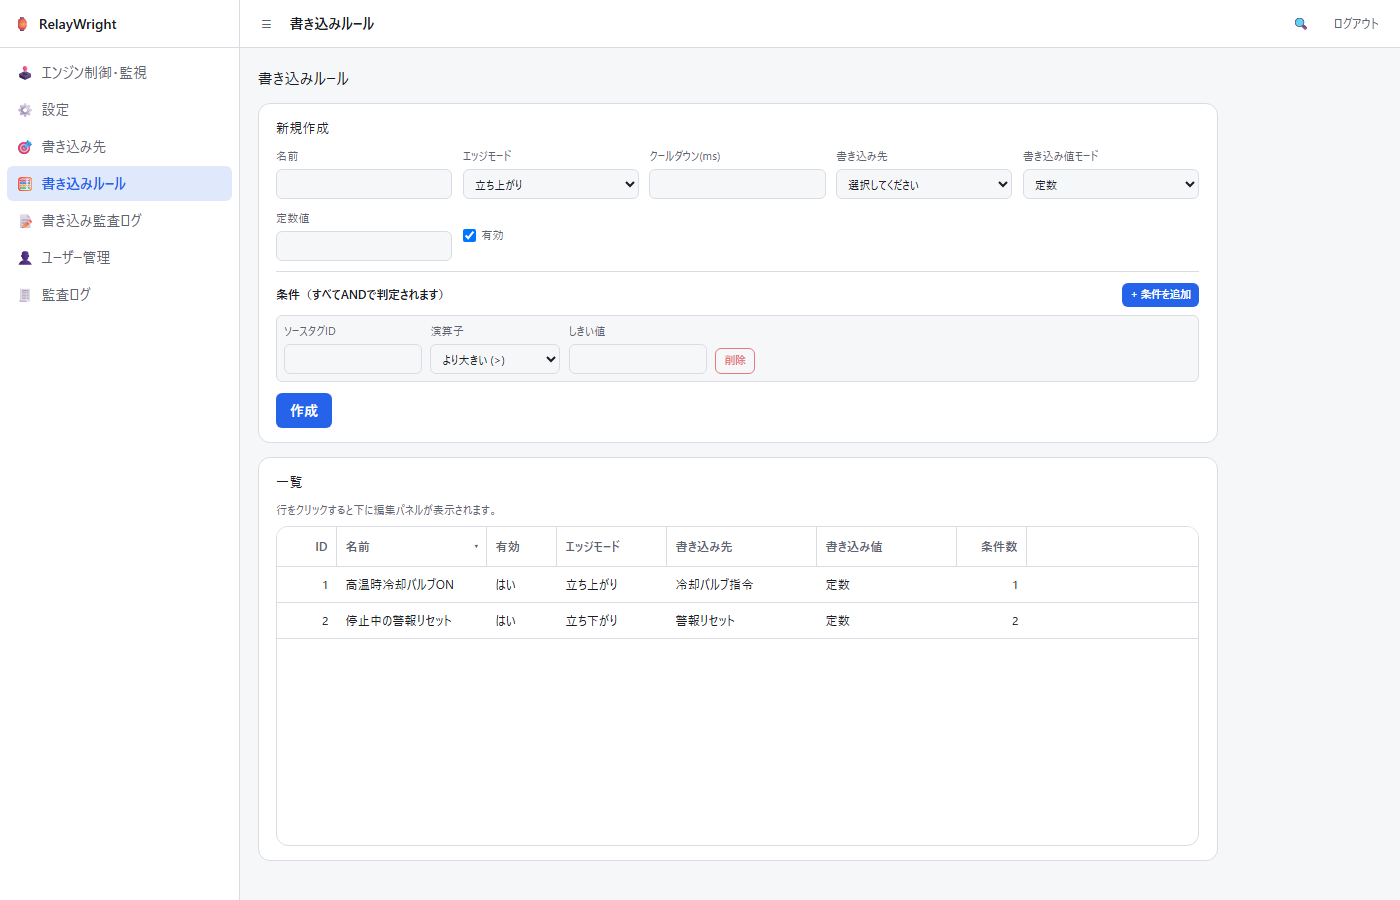
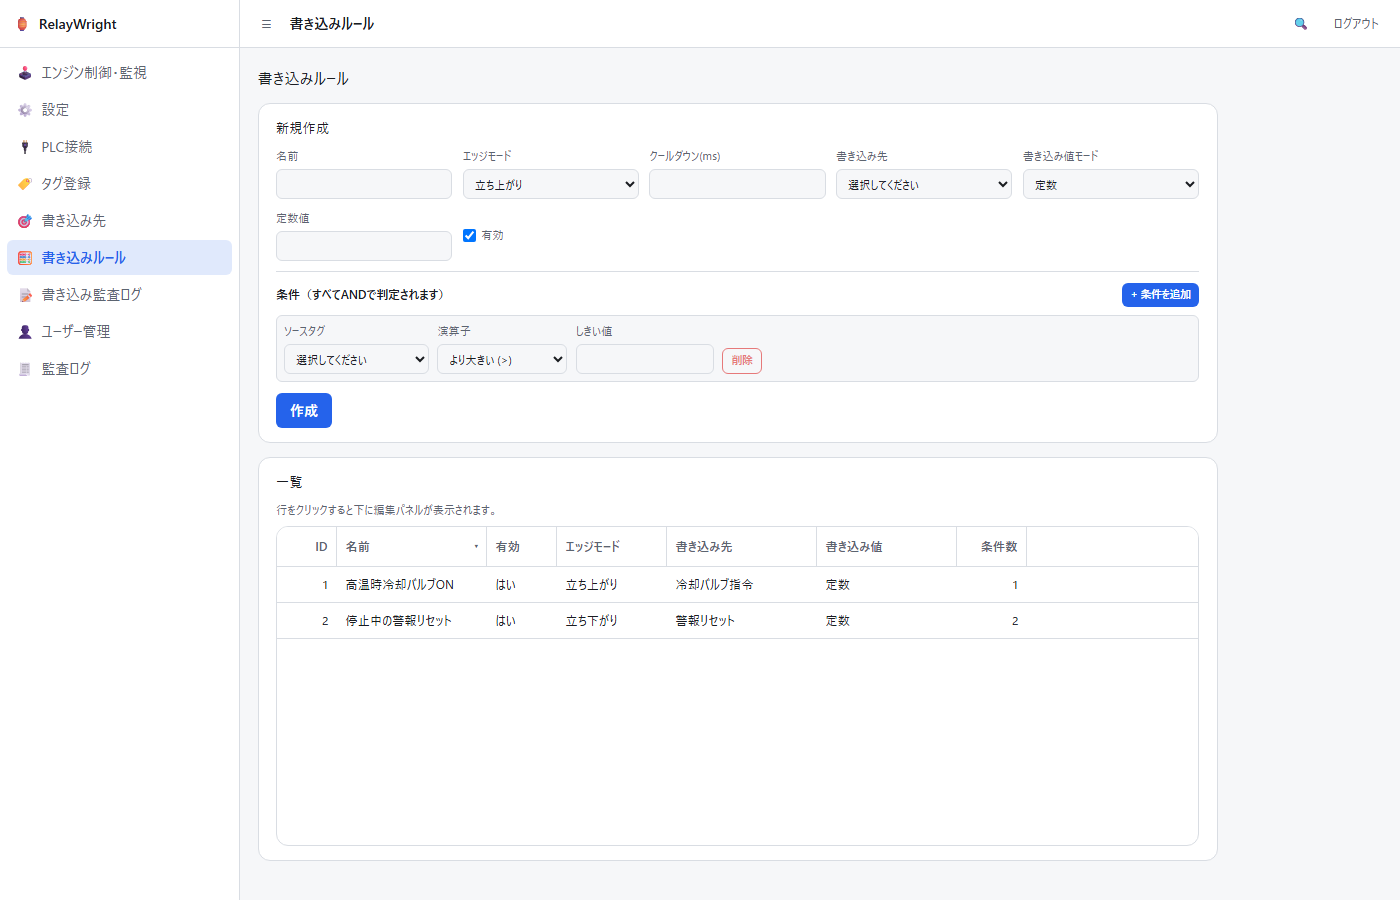
docs(relay-wright): マニュアルをR1-B（PLC接続/タグ登録画面・プルダウン化）に追随
- capture-screenshots.mjs: PLC接続・収集グループ・タグの投入を直接INSERT
  からREST（実経路）に切替（直接INSERTはエンジン専用のwrite_audit_log
  デモ行のみ残す）。plc-connections.png / tags.png の撮影を追加
- スクリーンショット全面再取得（ナビに PLC接続/タグ登録 が増えたため
  全画面のサイドバーが変化。login/setup はバイト同一で変更なし）
- manual.md:
  - §4 に 4.2 PLC接続（SLMPのみエンジン対象の注記・削除ガード）と
    4.3 タグ登録（収集グループ内包・アドレス記法・スケーリング/しきい値・
    period_ms は参考情報）をナビ順で追加し、以降を再採番
  - 書き込み先/ルール: ID数値直接入力の記述を「ID: 名前（…）」形式の
    プルダウン選択に更新
  - §5 手順1: 接続→タグ→書き込み先→ルールの順で全て画面から登録可能に
  - §6: 「PLC接続・ソースタグの管理画面が未実装」の項目を削除（解消済み）

diff --git a/apps/relay-wright/docs/manual.md b/apps/relay-wright/docs/manual.md
@@ -76,8 +76,8 @@ Windows 用インストーラ（NSIS 形式 `RelayWright_<version>_x64-setup.exe
 
 ## 4. 画面ガイド
 
-サイドバーの構成は上から エンジン制御・監視 / 設定 / 書き込み先 /
-書き込みルール / 書き込み監査ログ / ユーザー管理 / 監査ログ です
+サイドバーの構成は上から エンジン制御・監視 / 設定 / PLC接続 / タグ登録 /
+書き込み先 / 書き込みルール / 書き込み監査ログ / ユーザー管理 / 監査ログ です
 （ユーザー管理と監査ログは管理者のみ表示）。
 
 権限（ロール）は 3 段階です。
@@ -85,7 +85,7 @@ Windows 用インストーラ（NSIS 形式 `RelayWright_<version>_x64-setup.exe
 | ロール          | できること                                                              |
 | --------------- | ----------------------------------------------------------------------- |
 | 閲覧者 (viewer) | 各画面の閲覧のみ                                                        |
-| 編集者 (editor) | + 書き込み先/ルールの作成・編集・削除、ドライラン切替                   |
+| 編集者 (editor) | + PLC接続/タグ/書き込み先/ルールの作成・編集・削除、ドライラン切替      |
 | 管理者 (admin)  | + アーム/ディスアーム、エンジン再構築、ユーザー管理、監査ログ、設定管理 |
 
 ### 4.1 エンジン制御・監視
@@ -116,24 +116,70 @@ Windows 用インストーラ（NSIS 形式 `RelayWright_<version>_x64-setup.exe
 - 権限: アーム/ディスアーム/エンジン再構築は管理者のみ、ドライラン切替は
   編集者以上です。権限のないボタンは無効化されます。
 
-### 4.2 書き込み先
+### 4.2 PLC接続
+
+収集グループ・タグ・書き込み先が参照する PLC エンドポイント
+（ホスト・ポート）の登録画面です。まずここに接続を登録してから、
+タグや書き込み先を作成します。
+
+![PLC接続画面](images/plc-connections.png)
+
+- 上段の「新規作成」フォームで名前・プロトコル
+  （`SLMP（MELSEC MCプロトコル）` / `Modbus TCP` のプルダウン）・
+  ホスト・ポート・ユニット ID・有効を入力して作成します。
+- **ユニット ID** は Modbus 用のスレーブ ID（0〜255）です。SLMP では
+  未使用のため、既定値 1 のままで構いません。
+- **本アプリのエンジンがポーリング／書き込みするのは SLMP 接続のみ**です。
+  Modbus TCP は共有レジストリ（他アプリ用）として登録できますが、
+  本アプリのエンジンからは使用されません。
+- 一覧の行をクリックすると下に編集パネルが開き、保存・削除ができます。
+- 収集グループが参照している接続は削除できません（「…収集グループが
+  N 件あるため削除できません」というエラーが表示されます）。先に
+  参照元の収集グループを削除・付け替えしてください。
+
+### 4.3 タグ登録
+
+書き込みルールの条件・コピー元が参照するソースタグの登録画面です。
+タグが所属する収集グループの管理もこの画面で行います。
+
+![タグ登録画面](images/tags.png)
+
+- **収集グループ**: タグは必ずいずれかの収集グループ（PLC 接続への
+  所属単位）に属します。ページ上部のセクションで一覧・作成・編集・
+  削除ができます。PLC 接続はプルダウンで選択し、収集周期は
+  100ms〜1min の固定候補から選びます。**収集周期（period）は共有
+  レジストリ上のメタデータ（他の収集アプリが使用）で、本アプリの
+  エンジンは自前の固定間隔でポーリングするため、ここでは参考情報
+  です。** タグが所属しているグループは削除できません（件数入りの
+  エラーが表示されます）。
+- タグの「新規作成」フォームでは名前・収集グループ（「グループ名
+  （接続名）」形式のプルダウン）・アドレス・データ型
+  （bit/i16/u16/i32/u32/f32）・単位・小数桁などを入力します。
+- **アドレス**は SLMP 記法で入力します（例: `D100` / `M10` / `X1A`）。
+- **スケーリング（raw/eng の上下限）**は 4 つすべて入力するか、すべて
+  空にしてください（空 = スケーリングなし）。
+- **しきい値 LL/L/H/HH** は LL ≤ L ≤ H ≤ HH の順で入力します
+  （設定した項目のみ比較されます）。
+- 一覧の行をクリックすると下に編集パネルが開き、保存・削除ができます。
+
+### 4.4 書き込み先
 
 ルールが値を書き込む PLC デバイス（アドレス）の登録画面です。
 
 ![書き込み先画面](images/write-targets.png)
 
-- 上段の「新規作成」フォームで名前・PLC 接続 ID・アドレス（例: `D200`）・
+- 上段の「新規作成」フォームで名前・PLC 接続・アドレス（例: `D200`）・
   データ型（bit/i16/u16/i32/u32/f32）・単位・小数桁・スケーリング
   （raw/eng の上下限。全て空欄 = スケーリングなし）を入力して作成します。
+- **PLC 接続**は [PLC接続画面](#42-plc接続) で登録済みの接続から
+  「ID: 名前（プロトコル）」形式のプルダウンで選択します（数値 ID は
+  監査ログの記録と突き合わせられるようラベルに含めています）。
+  エンジンが実際に書き込むのは SLMP 接続のみです。
 - 一覧の行をクリックすると下に編集パネルが開き、保存・削除ができます。
 
 ![書き込み先の編集パネル](images/write-targets-form.png)
 
-> 注意: 「PLC 接続 ID」は数値の直接入力です。PLC 接続の一覧画面が
-> まだ無いため（[§6](#6-現状の制限)）、ID はデータベース登録時の値を
-> 指定します。存在しない ID はサーバー側の検証でエラーになります。
-
-### 4.3 書き込みルール
+### 4.5 書き込みルール
 
 「どの条件が成立したら、どこに何を書くか」を定義する画面です。
 
@@ -157,16 +203,19 @@ Windows 用インストーラ（NSIS 形式 `RelayWright_<version>_x64-setup.exe
   - `定数`: 「定数値」欄に入力した固定値を書き込みます
   - `ソースタグをコピー`: 指定したソースタグの現在値をそのまま書き込みます
 - **条件（すべて AND で判定されます）**: 「+ 条件を追加」で行を増やせます。
-  各行はソースタグ ID・演算子（=, ≠, >, ≥, <, ≤, between, bit_is）・
+  各行はソースタグ・演算子（=, ≠, >, ≥, <, ≤, between, bit_is）・
   しきい値（between のみ上限値も）からなり、全行が成立して初めてルールの
   条件成立と見なされます。
 - **書き込みループ検出**: 「ルール A の書き込み先が別ルールの条件を成立
   させ、それがまた…」という循環につながる構成は保存時に検証され、
   エラーとして拒否されます。
 
-> ソースタグ ID も現状は数値の直接入力です（[§6](#6-現状の制限)）。
+> ソースタグ（条件・「ソースタグをコピー」の参照元）は
+> [タグ登録画面](#43-タグ登録) で登録済みのタグから
+> 「ID: 名前（アドレス）」形式のプルダウンで選択します（数値 ID は
+> 監査ログの記録と突き合わせられるようラベルに含めています）。
 
-### 4.4 書き込み監査ログ
+### 4.6 書き込み監査ログ
 
 エンジンが記録したすべての書き込み関連イベント（ルール発火・アーム/
 ディスアーム・ドライラン切替・レート制限トリップ）の閲覧画面です。
@@ -188,7 +237,7 @@ Windows 用インストーラ（NSIS 形式 `RelayWright_<version>_x64-setup.exe
 緑（実書き込み）と灰（意図的な抑止）と赤（要注意）を一目で区別できる
 ように配色されています。赤い行を見つけたら詳細を確認してください。
 
-### 4.5 監査ログ（操作監査）
+### 4.7 監査ログ（操作監査）
 
 書き込み以外の操作（ログイン/ログアウト、ユーザー・書き込み先・ルールの
 作成/変更/削除、設定変更、バックアップ/リストア等）の監査証跡です。
@@ -197,14 +246,14 @@ Windows 用インストーラ（NSIS 形式 `RelayWright_<version>_x64-setup.exe
 
 ![監査ログ画面](images/audit-log.png)
 
-### 4.6 ユーザー管理
+### 4.8 ユーザー管理
 
 ユーザーの作成・ロール変更・パスワードリセット・削除を行います。
 管理者のみ利用できます。
 
 ![ユーザー管理画面](images/users.png)
 
-### 4.7 設定
+### 4.9 設定
 
 テーマ（ライト/ダーク/システム、スタンダード/ガラス）、LAN アクセス
 （組み込み Web サーバー。デスクトップアプリでのみ変更可）、監査ログの
@@ -217,8 +266,9 @@ Windows 用インストーラ（NSIS 形式 `RelayWright_<version>_x64-setup.exe
 
 初めて実運用に載せるまでの推奨手順です。
 
-1. **登録**: PLC 接続・ソースタグを登録し（現状は [§6](#6-現状の制限) の
-   方法で）、「書き込み先」→「書き込みルール」の順に画面から登録します。
+1. **登録**: 「PLC接続」→「タグ登録」（収集グループ → タグ）→
+   「書き込み先」→「書き込みルール」の順に、すべて画面から登録します
+   （サイドバーの並び順どおりです）。
 2. **反映**: デスクトップ版で「エンジン再構築（リロード）」を実行し、
    登録内容をエンジンに読み込ませます（再構築後は非アームで開始）。
 3. **ドライランで検証**: ドライランを ON にし（必要ならアームも行い）、
@@ -242,10 +292,6 @@ Windows 用インストーラ（NSIS 形式 `RelayWright_<version>_x64-setup.exe
 
 ## 6. 現状の制限
 
-- **PLC 接続・ソースタグの管理画面が未実装です。** 書き込み先やルールが
-  参照する PLC 接続 ID・ソースタグ ID は画面からは登録できず、現状は
-  データベース（SQLite）への直接登録が必要で、各フォームでは ID を数値で
-  直接入力します。管理画面は将来のマイルストーンで追加予定です。
 - **設定変更の反映にはエンジン再構築が必要です。** 書き込み先・ルール・
   PLC 接続を変更しても、稼働中のエンジンには自動反映されません。
   デスクトップ版の「エンジン再構築（リロード）」を実行してください
